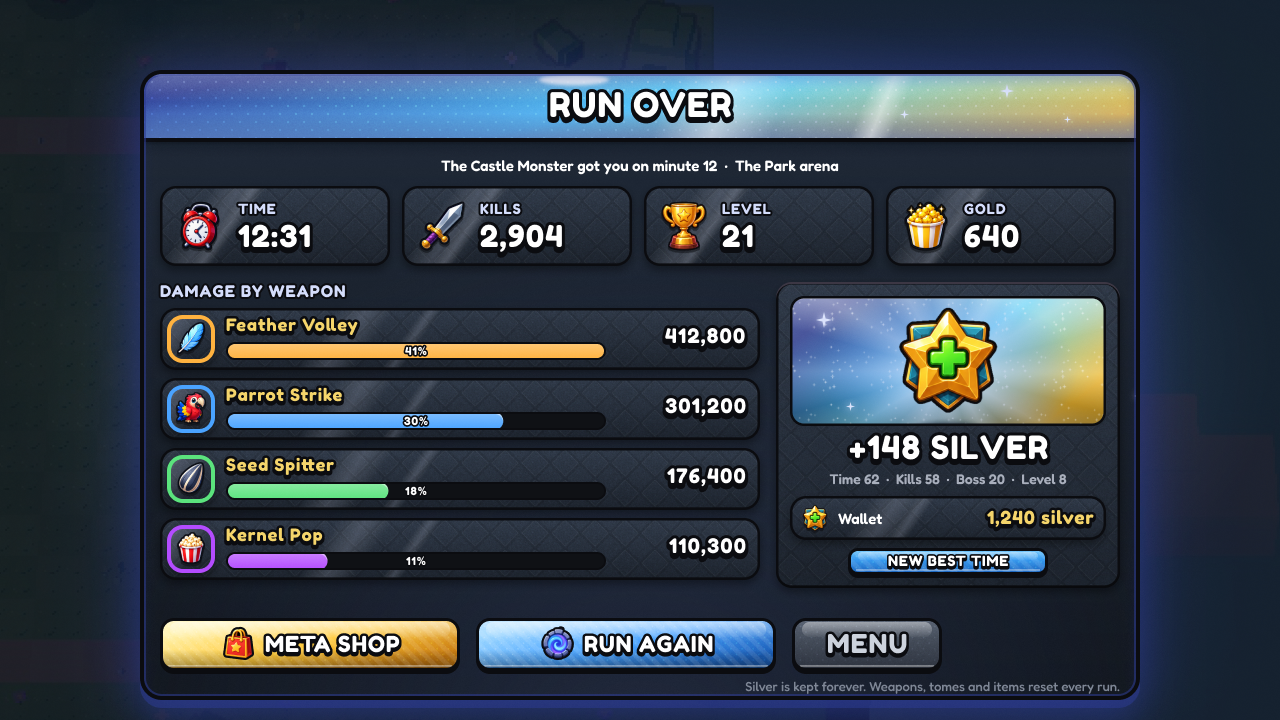
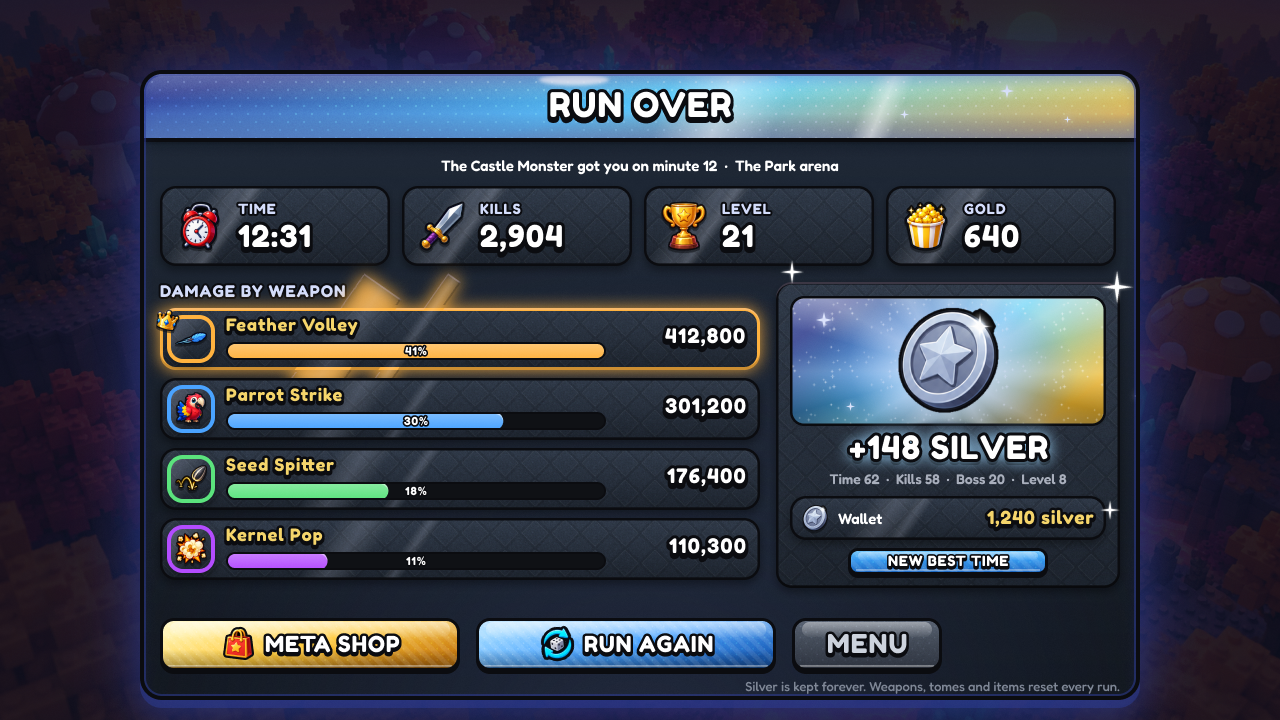
Rogue UI v2 pass: Figma AI biomes and item art, hierarchy/FX, motion spec cards, Framewisp tags
Claude-Session: https://claude.ai/code/session_01Bcipvs8GEV4zrXkynrNaGf

diff --git a/HANDOUT.md b/HANDOUT.md
@@ -292,3 +292,10 @@ Every frame is built from clones of the UI v2 **Mine window** (`57:7`: header, r
 | `426:7` | Meta shop (Silver shop window duplicated from Mine + unlocks grid) |
 
 Source clones on the same page (`src/*`, y = -3000) can be deleted once the frames are approved. Item icon choices are placeholders (Storm Locket = aura, Blood Beak = heart, Point Hoard = skill_point, Hunter Momentum = wing, Splitter Haste = clock).
+
+### v2 pass (2026-10-14, same session)
+- **Figma AI art (gpt-image model):** two procedural-map biome references, Meadow and Twilight (`design/rogue-ui/maps/`). They are cartoony plastic stud bricks, cel-shaded. Every run will generate a random biome, so the screens alternate between them. There is also a 16-item icon sheet (`birb-icons/sheets/rogue_items_sheet.png`), cut with `cut_grid.py` into `birb-icons/final/`: `art_*` (Storm Locket, Blood Beak, Point Hoard, Hunter Momentum, Splitter Haste), `wpn_*` (Kernel Pop, Feather Volley, Seed Spitter, Crow Pick, Gull Dive), `silver`, `chest_epic`, `shrine`, `lock`, `reroll` and `banish`. The FX textures from `final/ui` (sunburst, glow, sparkle, halo, glitter) are in the icon bank too.
+- **Hierarchy and FX:** the focused Legendary card is scaled 1.07 and raised, with god rays, a focus ring and sparkles; the other cards are at 88%. There are 1/2/3 key chips and a "+2 MORE" badge. The chest reveal has rarity god rays, a glow and an EPIC ribbon. The HUD has a timer capsule, a minimap with real map art, cooldown fills, a white ping on the slot that just fired, glowing gems, a crit glow, and top and bottom legibility shades. The best weapon gets a gold rim and crown. Affordable unlocks get a blue rim, and locked ones a padlock.
+- **Motion:** each frame has a 🎬 spec card in the UI v2 spec format (`431:325` HUD, `431:339` Level-up, `431:353` Chest, `431:367` Pause, `431:381` End, `431:395` Meta, `431:409` Kit tokens), plus Figma annotations on cards, buttons, bars, slots and windows.
+- **Framewisp:** buttons are tagged `_button` (plus `_open:Pause`, `_open:MetaShop`, `_open:Settings`, `_close`), windows `_panel`, FX, vignette and dim layers `_image` (blend modes, blur and dashed strokes do not import, so they are baked), and the map backdrop and key hints `_ignore`.
+- Layout: row 1 is y=0 and row 2 is y=1500, with the spec cards under each row. The kit is at (0,3000).
